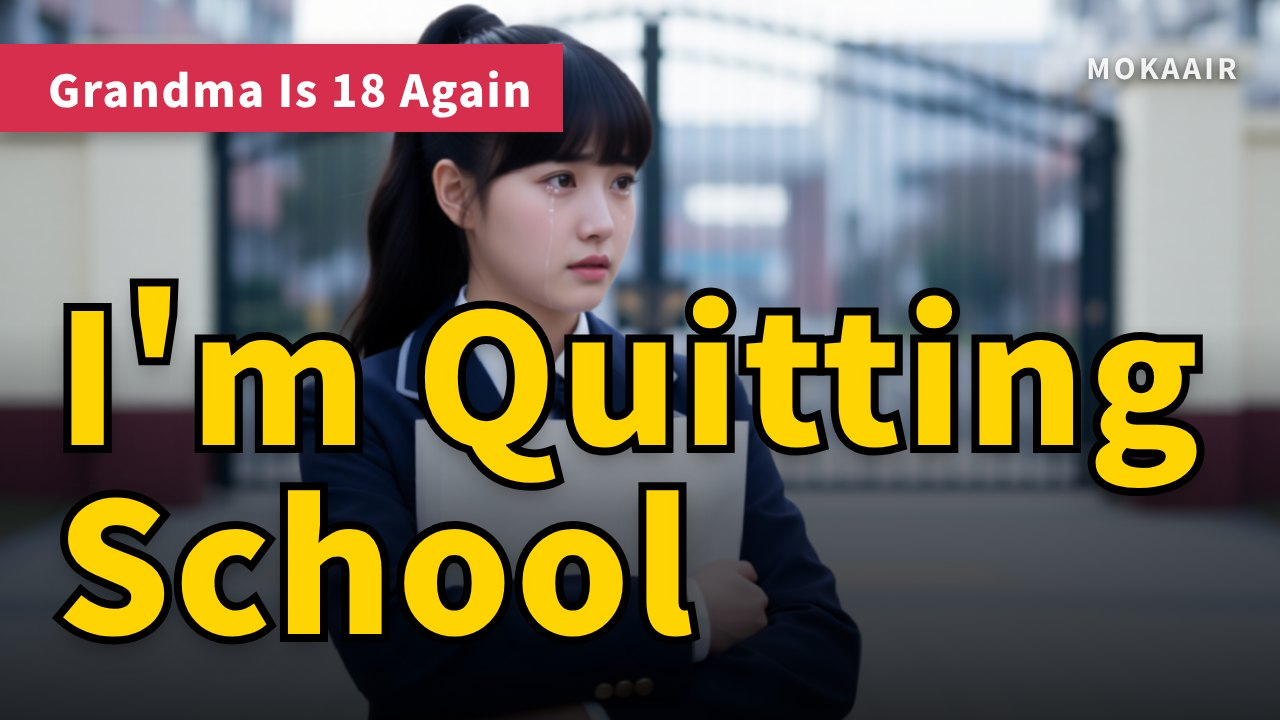
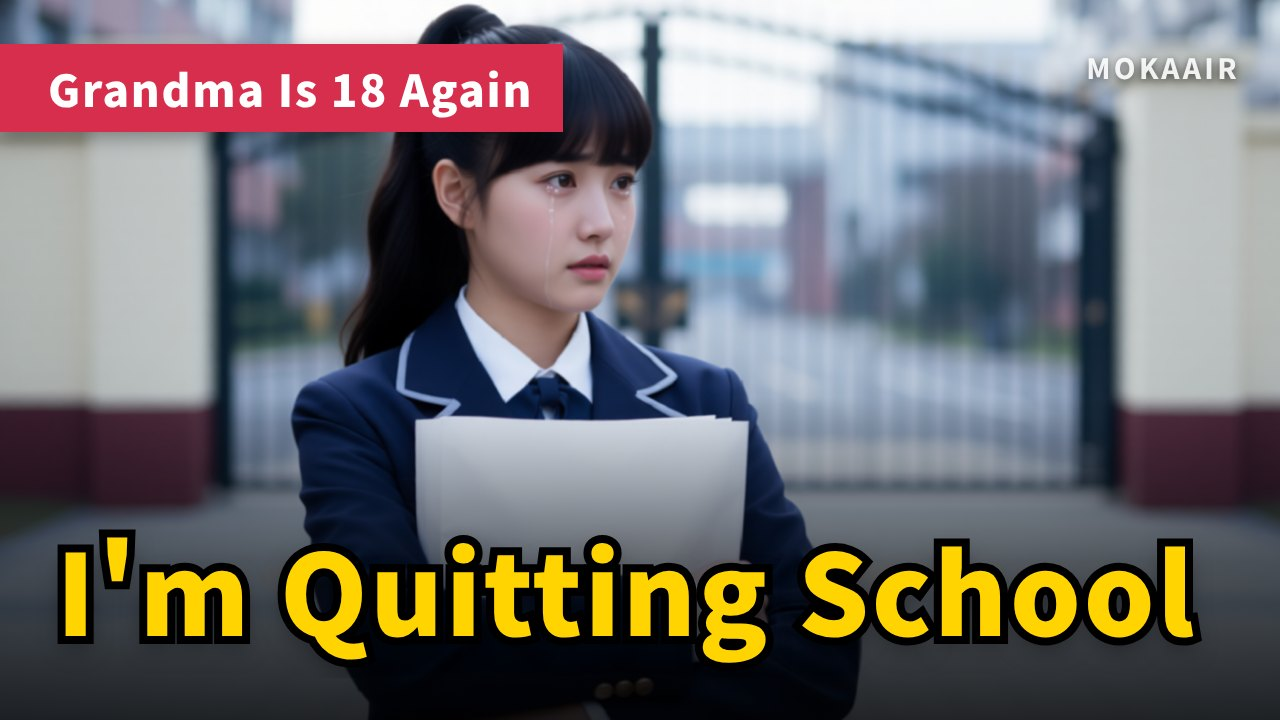
fix(video): AI 劇縮圖標題固定一行，不再蓋到臉
站主：「AI劇的字跟圖解決一下，是不是AI劇就不要字?」。參考片 16 支裡 14 支有字，所以保留字：
兩行 190px 的大字高約 400px，會蓋到下巴與臉；改成 170px 一行、放不下就縮字（不換行），
底圖往上對齊（center 18%）、遮罩從更低處開始，臉留在上半部。qa 的 HEADLINE_DRAMA 跟著改成一行。
樣張更新（種田 e003、祖媽 e018、7 字長標題、英文版）。

Claude-Session: https://claude.ai/code/session_01TWCDv3Zem5gnJoAHTwKiP4

diff --git a/docs/videos/thumbnail-looks-20261111/README.md b/docs/videos/thumbnail-looks-20261111/README.md
@@ -6,8 +6,8 @@
 | --- | --- | --- |
 | `drama-zhong-tian-qu-qi-e003.jpg` | AI 劇 layout `f` | 滿版關鍵影格、下三分之一黃字黑邊大字、左上種田橘色劇名條、右上 MOKAAIR |
 | `drama-tai-nainai-e018.jpg` | AI 劇 layout `f` | 同上，祖媽紅色劇名條；含淚特寫是這個版型要的那種臉 |
-| `drama-long-headline-balanced.jpg` | AI 劇 layout `f` | 7 字標題平均斷成兩行（聘禮是／三塊肥皂），不會斷成 5＋2 |
-| `drama-en.jpg` | AI 劇 layout `f` | 英文版：劇名條與標題都換成譯文，長字自動縮 |
+| `drama-long-headline.jpg` | AI 劇 layout `f` | 7 字標題仍是一行，字縮小而不換行，不會往上蓋到臉 |
+| `drama-en.jpg` | AI 劇 layout `f` | 英文版：劇名條與標題都換成譯文，一行、自動縮字 |
 | `sothatswhy-p14-no-keyframe.jpg` | 原來如此亮底 | 沒有關鍵影格：天藍到夕陽橘漸層、墨藍白邊大字、芥末黃強調、墨藍副標色塊 |
 | `sothatswhy-over-a-keyframe.jpg` | 原來如此亮底 | 鋪在關鍵影格上：字那側奶油色遮罩。示範用的底圖是祖媽 c14；主體在中間時會被字壓到，正式出圖用主體在右側的鏡頭，或 `data.subject: "right"` |
 | `sothatswhy-subject-right.jpg` | 原來如此亮底 | `data.subject: "right"`：圖縮到右側 38%，字與人分開 |
@@ -26,3 +26,5 @@
 - `sothatswhy-p06-final.jpg`、`-p18-final.jpg`、`-p21-final.jpg`：定案版畫在 P06、P18、P21 實際的縮圖鏡頭上（都寫 `data.subject: "right"`）。
 
 這個 PR 合併後，P06、P18 要重 render 縮圖並重送上架關卡（已核准的縮圖是舊版），P21 直接用新版；由那條 session 處理。
+
+AI 劇的標題固定一行（2026-11-11 站主「AI劇的字跟圖解決一下」）：兩行 190px 的大字高約 400px，會蓋到下巴與臉；改成 170px 一行、放不下就縮字，底圖往上對齊（`object-position: center 18%`），臉留在上半部。參考片 16 支裡 14 支有字，所以保留字、不拿掉。

diff --git a/tasks/open/2026-11-11-bright-explainer-and-drama-thumbnails.md b/tasks/open/2026-11-11-bright-explainer-and-drama-thumbnails.md
@@ -84,5 +84,9 @@ Render any 種田 or 祖媽 episode and any `sothatswhy-` episode and look at `t
   and the sub line stays on one line (fitText shrinks it) — before, a two-line sub plate ran into
   the series' name and the renderer reported it. Drama headlines use `text-wrap: balance`, so seven
   characters break 3+4, not 5+2.
+- Third pass (owner: 「AI劇的字跟圖解決一下，是不是AI劇就不要字?」): kept the text (14 of 16 reference
+  thumbnails carry it) but held it to one line at 170 px that shrinks instead of wrapping, the
+  picture anchored at 18% from the top and the shade starting lower, so the headline never climbs
+  onto the face. `DRAMA_THUMB_HEADLINE.maxLines` is 1 and qa measures one line.
 - 種田 e003's chosen keyframe has a calm face; the look needs the most expressive shot — pick
   `data.shot` for the face, not the scene.
